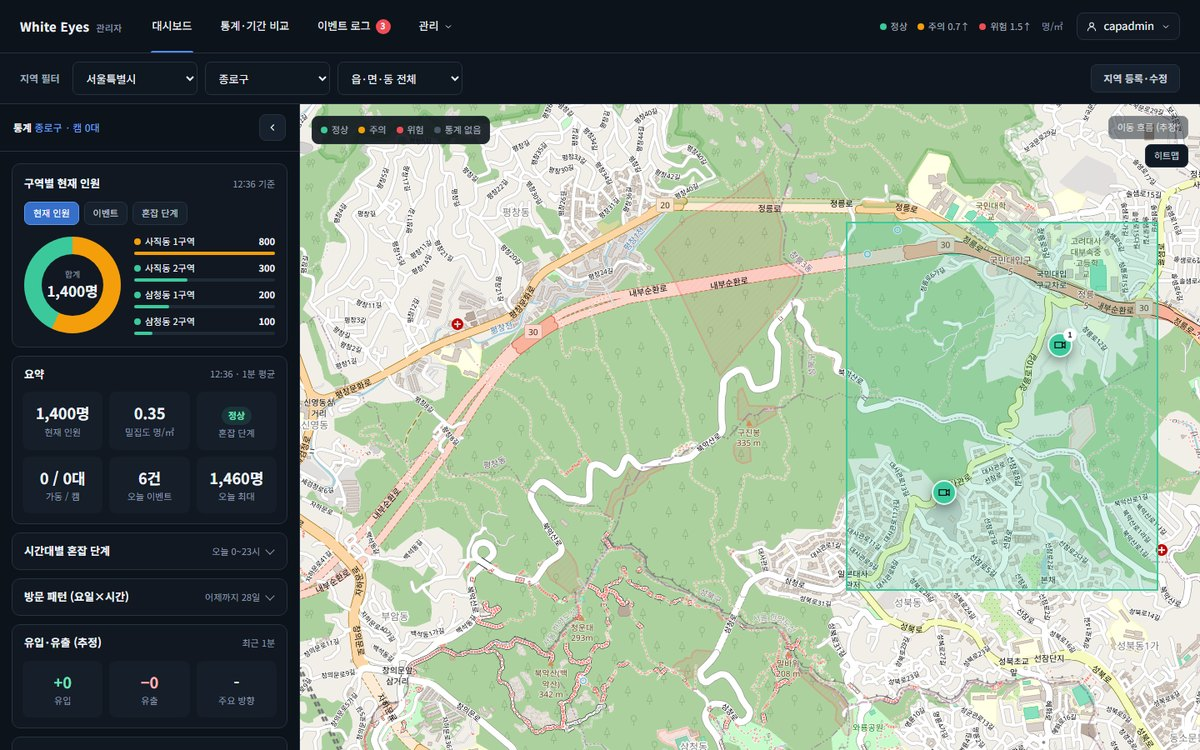
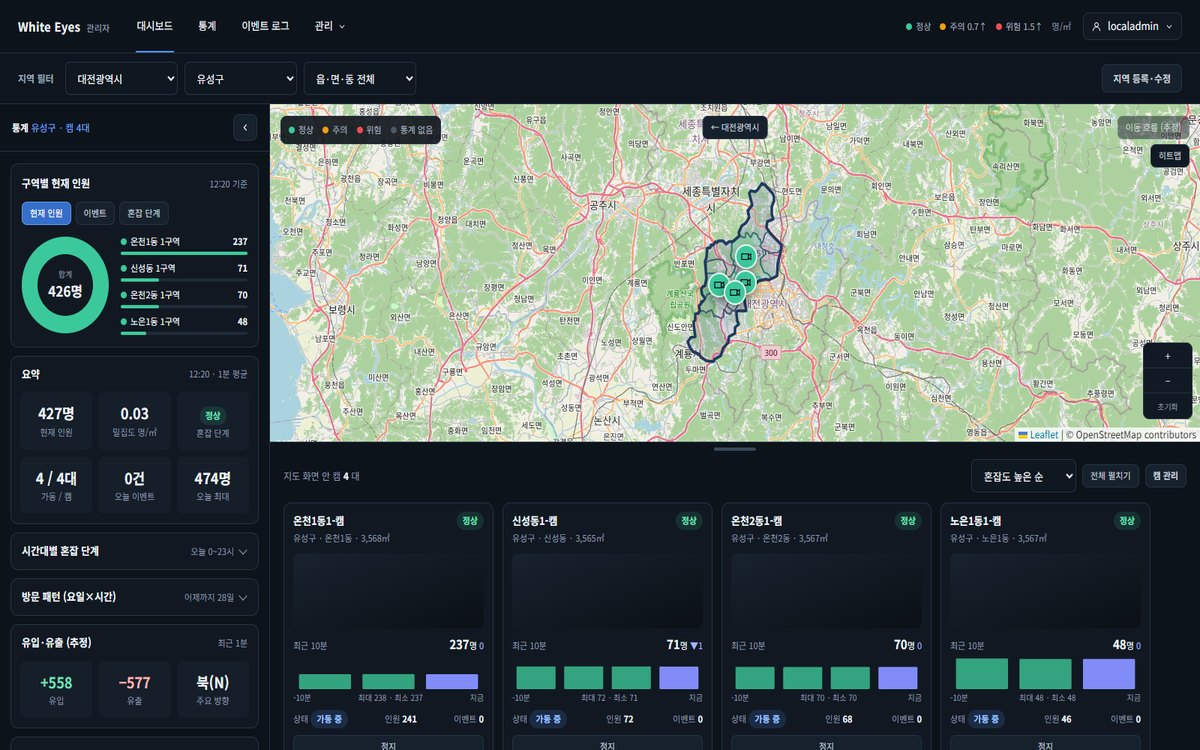
팀 프로젝트 저장소 주소와 white-eyes 소개 화면 반영

diff --git a/index.html b/index.html
@@ -132,17 +132,17 @@ footer{text-align:center;color:var(--sub);font-size:13px;padding:56px 0 44px}
 <section id="projects">
   <div class="head"><div class="eb">PROJECTS</div><h2 class="h2">프로젝트</h2></div>
 
-  <article class="pj"><div class="vis"><div class="hov"><img src="assets/obsidian-members.jpg" alt="Obsidian Shield 사용자 관리 화면" loading="lazy"><div class="ov"><a href="https://app.notion.com/p/410bd08dbbd28139b33bd769f4a63d4b" target="_blank" rel="noopener" aria-label="상세보기"><svg viewBox="0 0 24 24" width="24" height="24" fill="none" stroke="currentColor" stroke-width="2.2" stroke-linecap="round" stroke-linejoin="round"><path d="M7 17 17 7M8 7h9v9"/></svg></a></div></div></div>
+  <article class="pj"><div class="vis"><div class="hov"><img src="assets/obsidian-members.jpg" alt="Obsidian Shield 사용자 관리 화면" loading="lazy"><div class="ov"><a href="https://github.com/Kanabig/obsidian-shield" target="_blank" rel="noopener" aria-label="GitHub"><svg viewBox="0 0 24 24" width="24" height="24" fill="currentColor"><path d="M12 .5a11.5 11.5 0 0 0-3.64 22.41c.58.1.79-.25.79-.56v-2c-3.2.7-3.88-1.37-3.88-1.37-.52-1.33-1.28-1.69-1.28-1.69-1.04-.71.08-.7.08-.7 1.16.08 1.77 1.19 1.77 1.19 1.03 1.76 2.7 1.25 3.36.96.1-.75.4-1.25.73-1.54-2.55-.29-5.24-1.28-5.24-5.69 0-1.26.45-2.28 1.19-3.08-.12-.29-.52-1.46.11-3.05 0 0 .97-.31 3.17 1.18a11 11 0 0 1 5.77 0c2.2-1.49 3.17-1.18 3.17-1.18.63 1.59.23 2.76.11 3.05.74.8 1.19 1.82 1.19 3.08 0 4.42-2.69 5.39-5.25 5.68.41.36.78 1.06.78 2.14v3.17c0 .31.21.67.8.56A11.5 11.5 0 0 0 12 .5Z"/></svg></a><a href="https://app.notion.com/p/410bd08dbbd28139b33bd769f4a63d4b" target="_blank" rel="noopener" aria-label="상세보기"><svg viewBox="0 0 24 24" width="24" height="24" fill="none" stroke="currentColor" stroke-width="2.2" stroke-linecap="round" stroke-linejoin="round"><path d="M7 17 17 7M8 7h9v9"/></svg></a></div></div></div>
     <div class="bd"><div class="kd">TEAM 1차 · 5인 · DW아카데미 · 2026.06 – 07</div><h3>Obsidian Shield</h3><p class="one">실시간 보행자 관제 시스템</p>
     <ul class="bl"><li>회원 검색·필터·정렬, 가입 승인, 권한 변경</li><li>통합 관제 대시보드, UI/UX 설계</li></ul>
-    <div class="tg"><span>Flask</span><span>JSON</span></div><div class="ln"><a class="dt" href="https://app.notion.com/p/410bd08dbbd28139b33bd769f4a63d4b" target="_blank" rel="noopener">상세보기 ↗</a></div></div></article>
+    <div class="tg"><span>Flask</span><span>JSON</span></div><div class="ln"><a class="dt" href="https://app.notion.com/p/410bd08dbbd28139b33bd769f4a63d4b" target="_blank" rel="noopener">상세보기 ↗</a><a href="https://github.com/Kanabig/obsidian-shield" target="_blank" rel="noopener">GitHub ↗</a></div></div></article>
 
-  <article class="pj"><div class="vis"><div class="hov"><img src="assets/white-eyes-dashboard.jpg" alt="white-eyes 관리자 대시보드" loading="lazy"><div class="ov"><a href="https://github.com/white-eyes1/white-eyes-spring/pull/150" target="_blank" rel="noopener" aria-label="GitHub"><svg viewBox="0 0 24 24" width="24" height="24" fill="currentColor"><path d="M12 .5a11.5 11.5 0 0 0-3.64 22.41c.58.1.79-.25.79-.56v-2c-3.2.7-3.88-1.37-3.88-1.37-.52-1.33-1.28-1.69-1.28-1.69-1.04-.71.08-.7.08-.7 1.16.08 1.77 1.19 1.77 1.19 1.03 1.76 2.7 1.25 3.36.96.1-.75.4-1.25.73-1.54-2.55-.29-5.24-1.28-5.24-5.69 0-1.26.45-2.28 1.19-3.08-.12-.29-.52-1.46.11-3.05 0 0 .97-.31 3.17 1.18a11 11 0 0 1 5.77 0c2.2-1.49 3.17-1.18 3.17-1.18.63 1.59.23 2.76.11 3.05.74.8 1.19 1.82 1.19 3.08 0 4.42-2.69 5.39-5.25 5.68.41.36.78 1.06.78 2.14v3.17c0 .31.21.67.8.56A11.5 11.5 0 0 0 12 .5Z"/></svg></a><a href="https://app.notion.com/p/410bd08dbbd281978c38ec7c854cdea0" target="_blank" rel="noopener" aria-label="상세보기"><svg viewBox="0 0 24 24" width="24" height="24" fill="none" stroke="currentColor" stroke-width="2.2" stroke-linecap="round" stroke-linejoin="round"><path d="M7 17 17 7M8 7h9v9"/></svg></a></div></div></div>
+  <article class="pj"><div class="vis"><div class="hov"><img src="assets/white-eyes-dashboard.jpg" alt="white-eyes 관리자 대시보드" loading="lazy"><div class="ov"><a href="https://github.com/white-eyes1/white-eyes-introduce" target="_blank" rel="noopener" aria-label="GitHub"><svg viewBox="0 0 24 24" width="24" height="24" fill="currentColor"><path d="M12 .5a11.5 11.5 0 0 0-3.64 22.41c.58.1.79-.25.79-.56v-2c-3.2.7-3.88-1.37-3.88-1.37-.52-1.33-1.28-1.69-1.28-1.69-1.04-.71.08-.7.08-.7 1.16.08 1.77 1.19 1.77 1.19 1.03 1.76 2.7 1.25 3.36.96.1-.75.4-1.25.73-1.54-2.55-.29-5.24-1.28-5.24-5.69 0-1.26.45-2.28 1.19-3.08-.12-.29-.52-1.46.11-3.05 0 0 .97-.31 3.17 1.18a11 11 0 0 1 5.77 0c2.2-1.49 3.17-1.18 3.17-1.18.63 1.59.23 2.76.11 3.05.74.8 1.19 1.82 1.19 3.08 0 4.42-2.69 5.39-5.25 5.68.41.36.78 1.06.78 2.14v3.17c0 .31.21.67.8.56A11.5 11.5 0 0 0 12 .5Z"/></svg></a><a href="https://app.notion.com/p/410bd08dbbd281978c38ec7c854cdea0" target="_blank" rel="noopener" aria-label="상세보기"><svg viewBox="0 0 24 24" width="24" height="24" fill="none" stroke="currentColor" stroke-width="2.2" stroke-linecap="round" stroke-linejoin="round"><path d="M7 17 17 7M8 7h9v9"/></svg></a></div></div></div>
     <div class="bd"><div class="kd">TEAM 2차 · 6인 · DW아카데미 · 2026.10 – 11 예정</div><h3>white-eyes</h3><p class="one">영상 기반 혼잡도 분석 서비스</p>
     <ul class="bl"><li>분석 서버 · 시간별·일별 통계 집계와 누락 복구</li><li>추적 번호 부여율 1~2% → 약 91%</li><li>전송 실패 결과 보관·재전송 (120건 확인)</li></ul>
     <div class="tg"><span>Flask</span><span>Spring Boot</span><span>MySQL</span></div>
     
-    <div class="ln"><a class="dt" href="https://app.notion.com/p/410bd08dbbd281978c38ec7c854cdea0" target="_blank" rel="noopener">상세보기 ↗</a><a href="https://github.com/white-eyes1/white-eyes-spring/pull/150" target="_blank" rel="noopener">집계 PR #150 ↗</a><a href="https://github.com/white-eyes1/white-eyes-spring/pull/155" target="_blank" rel="noopener">복구 PR #155 ↗</a></div></div></article>
+    <div class="ln"><a class="dt" href="https://app.notion.com/p/410bd08dbbd281978c38ec7c854cdea0" target="_blank" rel="noopener">상세보기 ↗</a><a href="https://github.com/white-eyes1/white-eyes-introduce" target="_blank" rel="noopener">소개 저장소 ↗</a><a href="https://github.com/white-eyes1/white-eyes-spring" target="_blank" rel="noopener">Spring 저장소 ↗</a><a href="https://github.com/white-eyes1/white-eyes-flask" target="_blank" rel="noopener">Flask 저장소 ↗</a><a href="https://github.com/white-eyes1/white-eyes-spring/pull/150" target="_blank" rel="noopener">집계 PR #150 ↗</a><a href="https://github.com/white-eyes1/white-eyes-spring/pull/155" target="_blank" rel="noopener">복구 PR #155 ↗</a></div></div></article>
 
   <article class="pj"><div class="vis"><div class="hov"><img src="assets/game-battle.jpg" alt="잿빛 원정대 전투 화면" loading="lazy"><div class="ov"><a href="https://github.com/j75390/gametest" target="_blank" rel="noopener" aria-label="GitHub"><svg viewBox="0 0 24 24" width="24" height="24" fill="currentColor"><path d="M12 .5a11.5 11.5 0 0 0-3.64 22.41c.58.1.79-.25.79-.56v-2c-3.2.7-3.88-1.37-3.88-1.37-.52-1.33-1.28-1.69-1.28-1.69-1.04-.71.08-.7.08-.7 1.16.08 1.77 1.19 1.77 1.19 1.03 1.76 2.7 1.25 3.36.96.1-.75.4-1.25.73-1.54-2.55-.29-5.24-1.28-5.24-5.69 0-1.26.45-2.28 1.19-3.08-.12-.29-.52-1.46.11-3.05 0 0 .97-.31 3.17 1.18a11 11 0 0 1 5.77 0c2.2-1.49 3.17-1.18 3.17-1.18.63 1.59.23 2.76.11 3.05.74.8 1.19 1.82 1.19 3.08 0 4.42-2.69 5.39-5.25 5.68.41.36.78 1.06.78 2.14v3.17c0 .31.21.67.8.56A11.5 11.5 0 0 0 12 .5Z"/></svg></a><a href="https://app.notion.com/p/416bd08dbbd281128167dfdc0989405b" target="_blank" rel="noopener" aria-label="상세보기"><svg viewBox="0 0 24 24" width="24" height="24" fill="none" stroke="currentColor" stroke-width="2.2" stroke-linecap="round" stroke-linejoin="round"><path d="M7 17 17 7M8 7h9v9"/></svg></a></div></div></div>
     <div class="bd"><div class="kd">PERSONAL · 2026.09 – 11</div><h3>잿빛 원정대</h3><p class="one">다크 고딕 덱빌딩 로그라이크</p>
